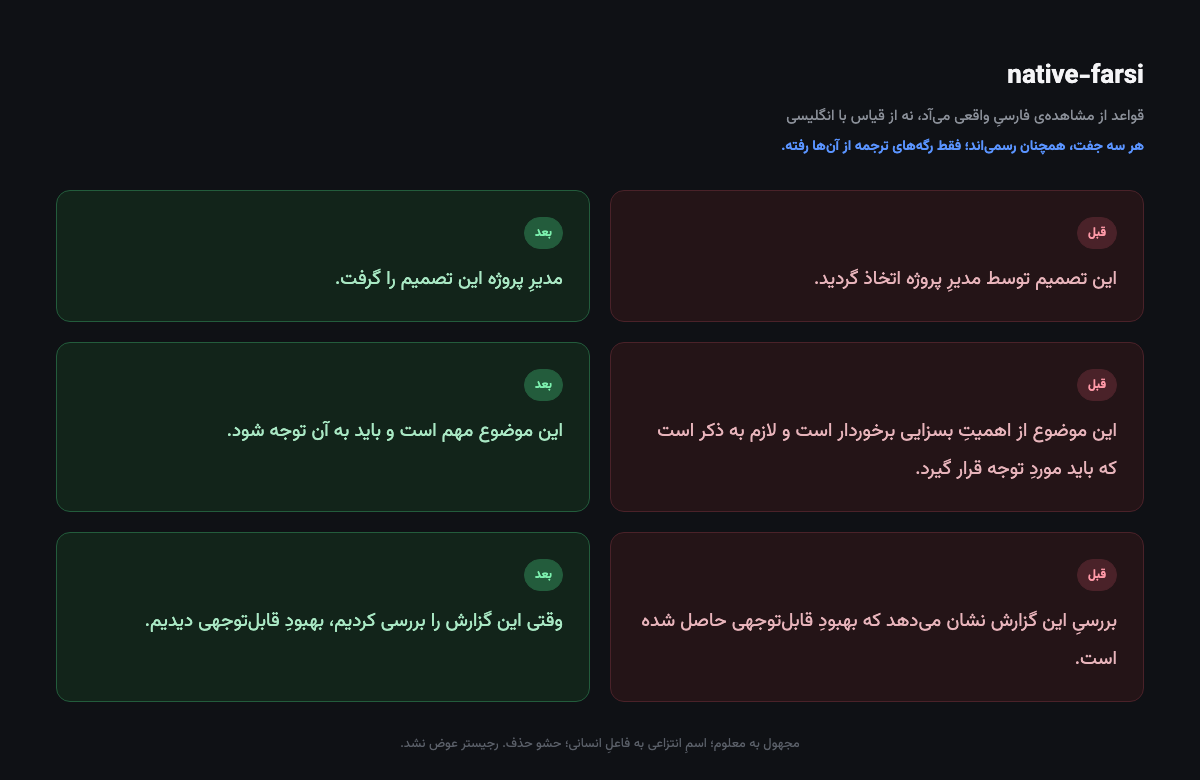
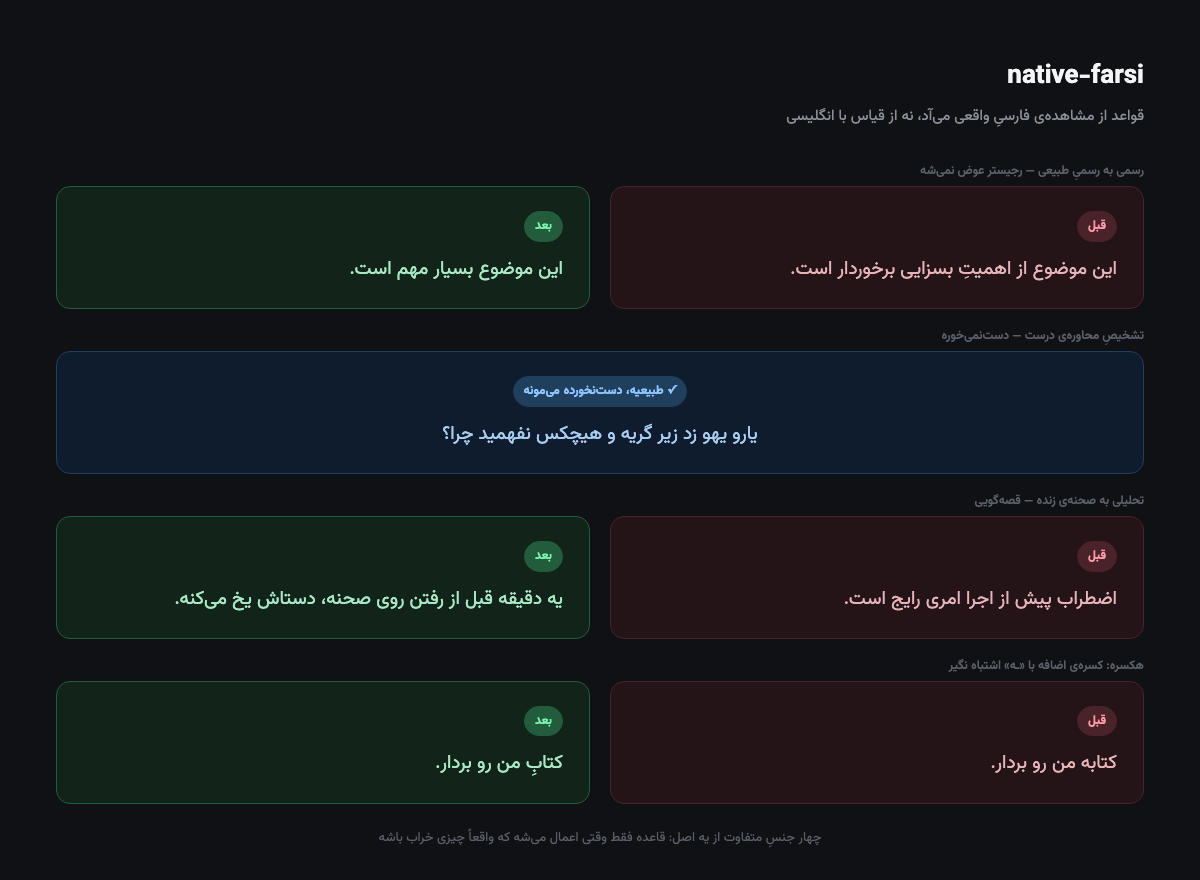
تصویرِ نهاییِ before/after (۴ نمونه، بر اساسِ نظرِ سازنده) + دو مثالِ متنی برایِ گفتمان و اسناد

diff --git a/README.md b/README.md
@@ -27,6 +27,16 @@ with English.
 - **Right-to-left documents**: Word, PowerPoint, PDF, HTML (with automated verify scripts)
 - **Every rule is graded**: 🔴 absolute · 🟡 register-dependent · 🔵 diagnostic (a signal, not a verdict)
 
+## Two more examples the image can't show
+
+**Discourse layer** (a whole paragraph's reference chain, not a single sentence):
+> ❌ "حالا اینو ببر بیرون از دوجو." — the pronoun has nothing to point back to.
+> ✅ "حالا همین الگو رو میشه برد بیرون دوجو." — the referent is named.
+
+**Right-to-left document layout** (not text — page structure): a Word file with
+mirrored alignment, Persian digits in numbered lists, no font fallback to
+DejaVu, verified automatically by `scripts/verify_docx.py` before delivery.
+
 ## Install
 
 Two ways:
@@ -103,6 +113,16 @@ see [THIRD-PARTY-NOTICES.md](THIRD-PARTY-NOTICES.md). Fonts under SIL OFL 1.1.
 - **سنجهی کمّیِ ریتم**: واریانسِ طولِ جمله رو اندازه میگیره
 - **اسنادِ راستچین**: Word، PowerPoint، PDF، HTML (با اسکریپتِ وریفایِ خودکار)
 - **هر قاعده درجهبندی شده**: 🔴 مطلق · 🟡 وابستهبهرجیستر · 🔵 تشخیصی (نه حکم)
+
+### دو مثالِ دیگه که تصویر نمیتونه نشون بده
+
+**لایهی گفتمان** (زنجیرهی ارجاعِ یه پاراگراف، نه یه جمله):
+> ❌ «حالا اینو ببر بیرون از دوجو.» (ضمیر به هیچ اسمی برنمیگرده)
+> ✅ «حالا همین الگو رو میشه برد بیرون دوجو.» (مرجع مشخصه)
+
+**چیدمانِ راستچینِ سند** (نه متن، خودِ صفحهآرایی): یه فایلِ Word با تراز آینهای،
+اعدادِ فارسی تو لیستِ شمارهدار، بدونِ افتادن به فونتِ fallback، که خودکار با
+`scripts/verify_docx.py` تأیید میشه قبلِ تحویل.
 
 ### نصب
 
